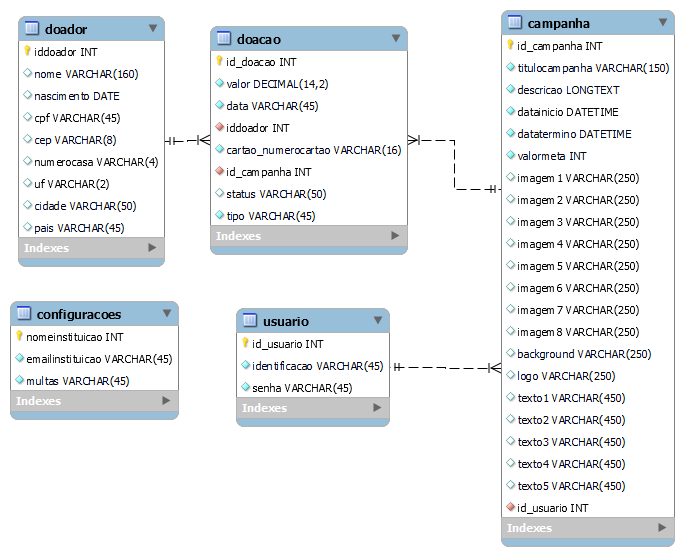
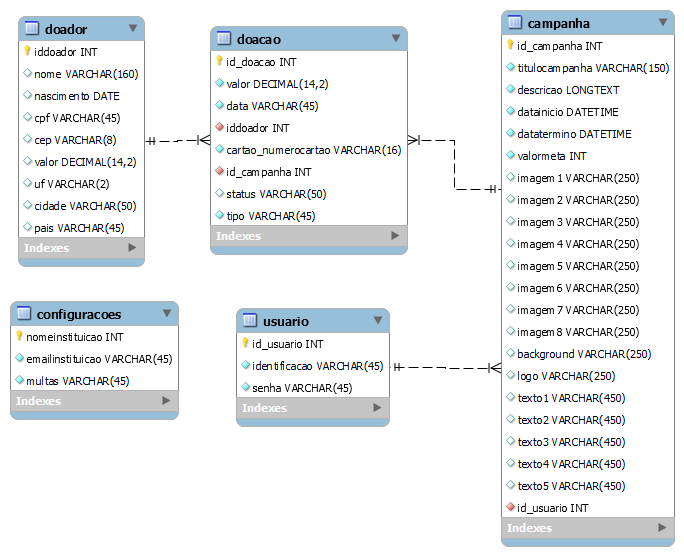
alterações PI

Changed region(s): [[0.0307, 0.2446, 0.2763, 0.3058], [0.1842, 0.4281, 0.2456, 0.4892], [0.1842, 0.0306, 0.2456, 0.0917]]

diff --git a/frontend/src/App.js b/frontend/src/App.js
@@ -62,7 +62,8 @@ function ListarDoadores() {
 
   useEffect(() => {
     const fetchData = async () => {
-        const resposta = await axios.get('http://localhost:3000/doador'); // Modifique a rota para apropriada, deve ser algo como 'http://localhost:3333/doador'
+        const resposta = await axios.get('http://localhost:9000/doador'); // Modifique a rota para apropriada, deve ser algo como 'http://localhost:3333/doador'
+        console.log(resposta.data)
         setData(resposta.data);
     };
     fetchData();
@@ -75,8 +76,7 @@ function ListarDoadores() {
           <th style={{ padding: '8px', textAlign: 'left' }}>Nome</th>
           <th style={{ padding: '8px', textAlign: 'left' }}>Data de Nascimento</th>
           <th style={{ padding: '8px', textAlign: 'left' }}>CPF</th>
-          <th style={{ padding: '8px', textAlign: 'left' }}>CEP</th>
-          <th style={{ padding: '8px', textAlign: 'left' }}>Número da Casa</th>
+          <th style={{ padding: '8px', textAlign: 'left' }}>Valor</th>
           <th style={{ padding: '8px', textAlign: 'left' }}>UF</th>
           <th style={{ padding: '8px', textAlign: 'left' }}>Cidade</th>
           <th style={{ padding: '8px', textAlign: 'left' }}>País</th>
@@ -86,10 +86,9 @@ function ListarDoadores() {
         {doadores.map((doador, index) => (
           <tr key={index} style={{ borderBottom: '1px solid #ddd' }}>
             <td style={{ padding: '8px' }}>{doador.nome}</td>
-            <td style={{ padding: '8px' }}>{doador.nascimento}</td>
+            <td style={{ padding: '8px' }}>{new Date(doador.nascimento).toLocaleDateString('pt-BR')}</td>
             <td style={{ padding: '8px' }}>{doador.cpf}</td>
-            <td style={{ padding: '8px' }}>{doador.cep}</td>
-            <td style={{ padding: '8px' }}>{doador.numerocasa}</td>
+            <td style={{ padding: '8px' }}>{doador.valor}</td>
             <td style={{ padding: '8px' }}>{doador.uf}</td>
             <td style={{ padding: '8px' }}>{doador.cidade}</td>
             <td style={{ padding: '8px' }}>{doador.pais}</td>
@@ -107,7 +106,7 @@ const Listar = () => {
   return (
     <>
     <h1>Listar</h1>
-<ListarDoadores></ListarDoadores>
+    <ListarDoadores></ListarDoadores>
     </>
     
 )
@@ -120,8 +119,7 @@ const CadastrarDoador = () => {
   const [nome, setNome] = useState('');
   const [nascimento, setNascimento] = useState('');
   const [cpf, setCpf] = useState('');
-  const [cep, setCep] = useState('');
-  const [numerocasa, setNumerocasa] = useState('');
+  const [valor, setValor] = useState('');
   const [uf, setUf] = useState('');
   const [cidade, setCidade] = useState('');
   const [pais, setPais] = useState('');
@@ -129,35 +127,28 @@ const CadastrarDoador = () => {
   const handleSubmit = async (e) => {
     e.preventDefault();
 
-    console.log(nome);
-    console.log(nascimento);
-    console.log(cpf);
-    console.log(cep);
-    console.log(numerocasa);
-    console.log(uf);
-    console.log(cidade);
-    console.log(pais);
-
+    const data = { nome, nascimento, cpf, valor, uf, cidade, pais };
+    console.log(data);
 
     try {
       // Envia os dados para a rota usando o método POST
-      await axios.post('http://localhost:3000/doador', {
+      await axios.post('http://localhost:9000/doador', {
         nome,
         nascimento,
         cpf,
-        cep,
-        numerocasa,
+        valor,
         uf,
         cidade,
         pais
       });
+
       alert('Dados enviados com sucesso!');
+
       // Limpa os campos após o envio bem-sucedido
       setNome('');
       setNascimento('');
       setCpf('');
-      setCep('');
-      setNumerocasa('');
+      setValor('');
       setUf('');
       setCidade('');
       setPais('');
@@ -169,7 +160,7 @@ const CadastrarDoador = () => {
 
   return (
     <div>
-      <h2>Formulário de Doação</h2>
+      <h2>Formulário de Doações</h2>
       <form onSubmit={handleSubmit}>
         <label>
           Nome:
@@ -202,21 +193,11 @@ const CadastrarDoador = () => {
         </label>
         <br />
         <label>
-          CEP:
+          Valor:
           <input
             type="text"
-            value={cep}
-            onChange={(e) => setCep(e.target.value)}
-            required
-          />
-        </label>
-        <br />
-        <label>
-          Número da Casa:
-          <input
-            type="text"
-            value={numerocasa}
-            onChange={(e) => setNumerocasa(e.target.value)}
+            value={valor}
+            onChange={(e) => setValor(e.target.value)}
             required
           />
         </label>
@@ -262,7 +243,7 @@ const Cadastrar = () => {
    
   return (
     <>
-    <h1>Cadastrar</h1>;
+    <h1>Cadastrar</h1>
     <CadastrarDoador></CadastrarDoador>
     </>
     

diff --git a/backend/index.js b/backend/index.js
@@ -20,59 +20,6 @@ app.get('/', (req,res) => {
     res.send("Mariana");
 })
 
-const getAllPessoas = async ()=>{
-    const [query] = await connection
-    .execute('select * from testepessoa.pessoa');
-    return query;
-}
-
-app.get('/pessoa', async (req,res)=>{
-    const consulta  = await getAllPessoas();
-    return res.status(200).json(consulta);
-})
-
-app.get('/pessoa/:id', async (req,res)=>{
-    const {id} = req.params;
-    const [query] = await connection.execute('select * from TestePessoa.Pessoa where id = ?', [id]);
-    if(query.lenght === 0) return res.status(400).json({mensagem: 'Nao encontrado. '})
-    return res.status(200).json(query);
-})
-
-app.post('/pessoa/busca/:nome', async (req,res)=>{
-    const {id} = req.params;
-    const [query]= await connection.execute('select * from TestePessoa.Pessoa where id = ? , [nome,email,id]')
-    if(query.length === 0) return res.status(400).json({mensagem: 'Nao encontrado.'})
-    return res.status(200).json(query);
-})
-
-app.post('/pessoa', async (req,res)=>{
-    const {nome, email} = req.body;
-    const [query]= await connection.
-    execute('insert into TestePessoa.Pessoa (nome,email) values (?,?)',
-    [nome,email])
-    return res.status(200).json(query);
-})
-
-app.put('/pessoa/:id', async (req, res) => {
-    const { id } = req.params;
-    const { nome, email } = req.body;
-  
-    
-    const [query] = await connection.execute(
-    'UPDATE TestePessoa.Pessoa SET nome = ?, email = ? WHERE id = ?',
-    [nome, email, id])
-    return res.send(query)
-        
-});
-
-app.delete('/pessoa/:id', async (req, res) => {
-    const { id } = req.params;
-    const [query] = await connection.execute(
-    'DELETE from TestePessoa.Pessoa WHERE id = ?',
-    [id])
-    return res.send(query)
-        
-});
 
 //doador
 const getAllDoadores = async () => {
@@ -84,6 +31,18 @@ app.get('/doador', async (req, res) => {
     const consulta = await getAllDoadores();
     return res.status(200).json(consulta);
 })
+
+app.post('/doador', async (req, res) => {
+    const { nome, nascimento, cpf, valor, uf, cidade, pais } = req.body;
+    const [query] = await connection.execute(
+        'INSERT INTO sistema.doador (nome, nascimento, cpf, valor, uf, cidade, pais) VALUES (?, ?, ?, ?, ?, ?, ?)',
+        [nome, nascimento, cpf, valor, uf, cidade, pais]
+    );
+    return res.status(200).json(query);
+})
+
+
+
 
 app.get('/doador/:iddoador', async (req, res) => {
     const { iddoador } = req.params;
@@ -99,22 +58,14 @@ app.post('/doador/busca/:iddoador', async (req, res) => {
     return res.status(200).json(query);
 })
 
-app.post('/doador', async (req, res) => {
-    const { nome, nascimento, cpf, cep, numerocasa, uf, cidade, pais } = req.body;
-    const [query] = await connection.execute(
-        'INSERT INTO sistema.doador (nome, nascimento, cpf, cep, numerocasa, uf, cidade, pais) VALUES (?, ?, ?, ?, ?, ?, ?, ?)',
-        [nome, nascimento, cpf, cep, numerocasa, uf, cidade, pais]
-    );
-    return res.status(200).json(query);
-})
 
 app.put('/doador/:iddoador', async (req, res) => {
     const { iddoador } = req.params;
-    const { nome, nascimento, cpf, cep, numerocasa, uf, cidade, pais } = req.body;
+    const { nome, nascimento, cpf, valor, uf, cidade, pais } = req.body;
 
     const [query] = await connection.execute(
-        'UPDATE sistema.doador SET nome = ?, nascimento = ?, cpf = ?, cep = ?, numerocasa = ?, uf = ?, cidade = ?, pais = ? WHERE iddoador = ?',
-        [nome, nascimento, cpf, cep, numerocasa, uf, cidade, pais, iddoador]
+        'UPDATE sistema.doador SET nome = ?, nascimento = ?, cpf = ?, valor = ?, uf = ?, cidade = ?, pais = ? WHERE iddoador = ?',
+        [nome, nascimento, cpf, valor, uf, cidade, pais, iddoador]
     );
     return res.status(200).json(query);
 });

diff --git a/backend/backup.js b/backend/backup.js
@@ -1,0 +1,53 @@
+const getAllPessoas = async ()=>{
+    const [query] = await connection
+    .execute('select * from testepessoa.pessoa');
+    return query;
+}
+
+app.get('/pessoa', async (req,res)=>{
+    const consulta  = await getAllPessoas();
+    return res.status(200).json(consulta);
+})
+
+app.get('/pessoa/:id', async (req,res)=>{
+    const {id} = req.params;
+    const [query] = await connection.execute('select * from TestePessoa.Pessoa where id = ?', [id]);
+    if(query.lenght === 0) return res.status(400).json({mensagem: 'Nao encontrado. '})
+    return res.status(200).json(query);
+})
+
+app.post('/pessoa/busca/:nome', async (req,res)=>{
+    const {id} = req.params;
+    const [query]= await connection.execute('select * from TestePessoa.Pessoa where id = ? , [nome,email,id]')
+    if(query.length === 0) return res.status(400).json({mensagem: 'Nao encontrado.'})
+    return res.status(200).json(query);
+})
+
+app.post('/pessoa', async (req,res)=>{
+    const {nome, email} = req.body;
+    const [query]= await connection.
+    execute('insert into TestePessoa.Pessoa (nome,email) values (?,?)',
+    [nome,email])
+    return res.status(200).json(query);
+})
+
+app.put('/pessoa/:id', async (req, res) => {
+    const { id } = req.params;
+    const { nome, email } = req.body;
+  
+    
+    const [query] = await connection.execute(
+    'UPDATE TestePessoa.Pessoa SET nome = ?, email = ? WHERE id = ?',
+    [nome, email, id])
+    return res.send(query)
+        
+});
+
+app.delete('/pessoa/:id', async (req, res) => {
+    const { id } = req.params;
+    const [query] = await connection.execute(
+    'DELETE from TestePessoa.Pessoa WHERE id = ?',
+    [id])
+    return res.send(query)
+        
+});
